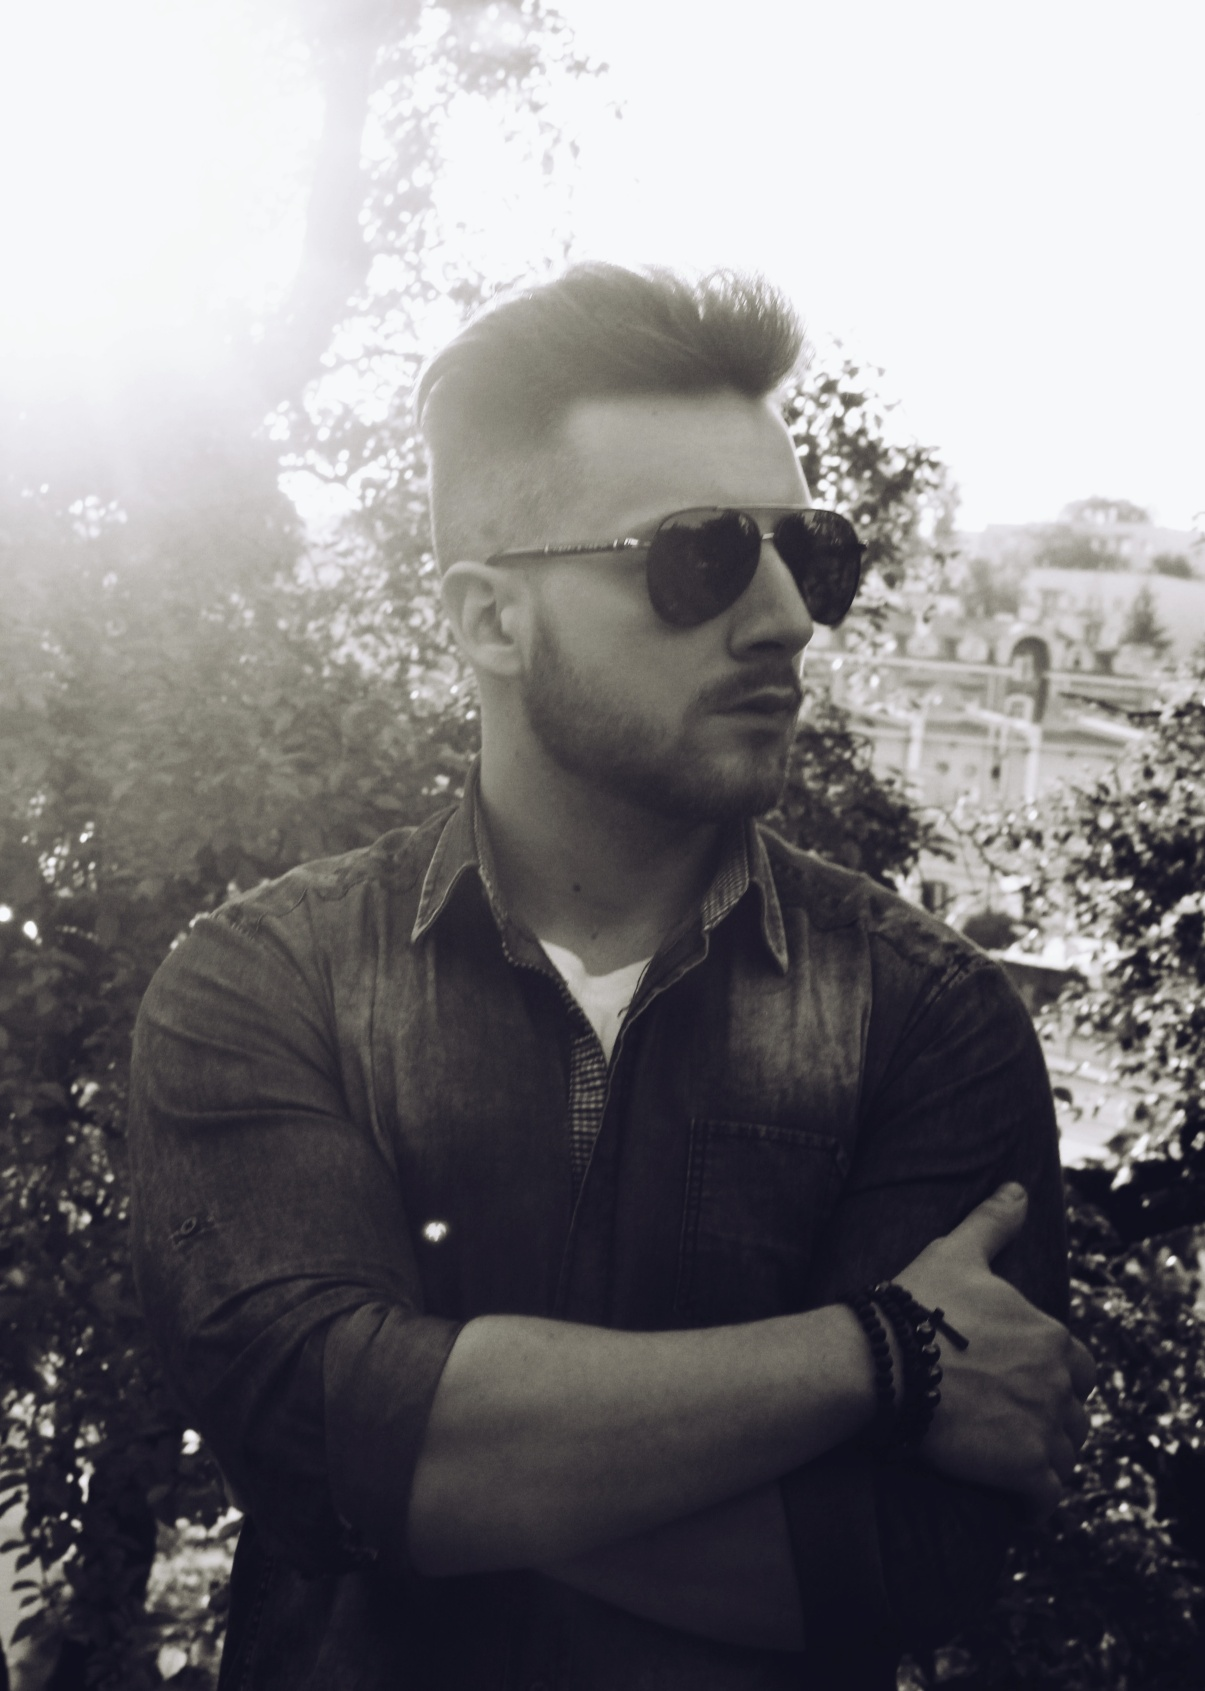
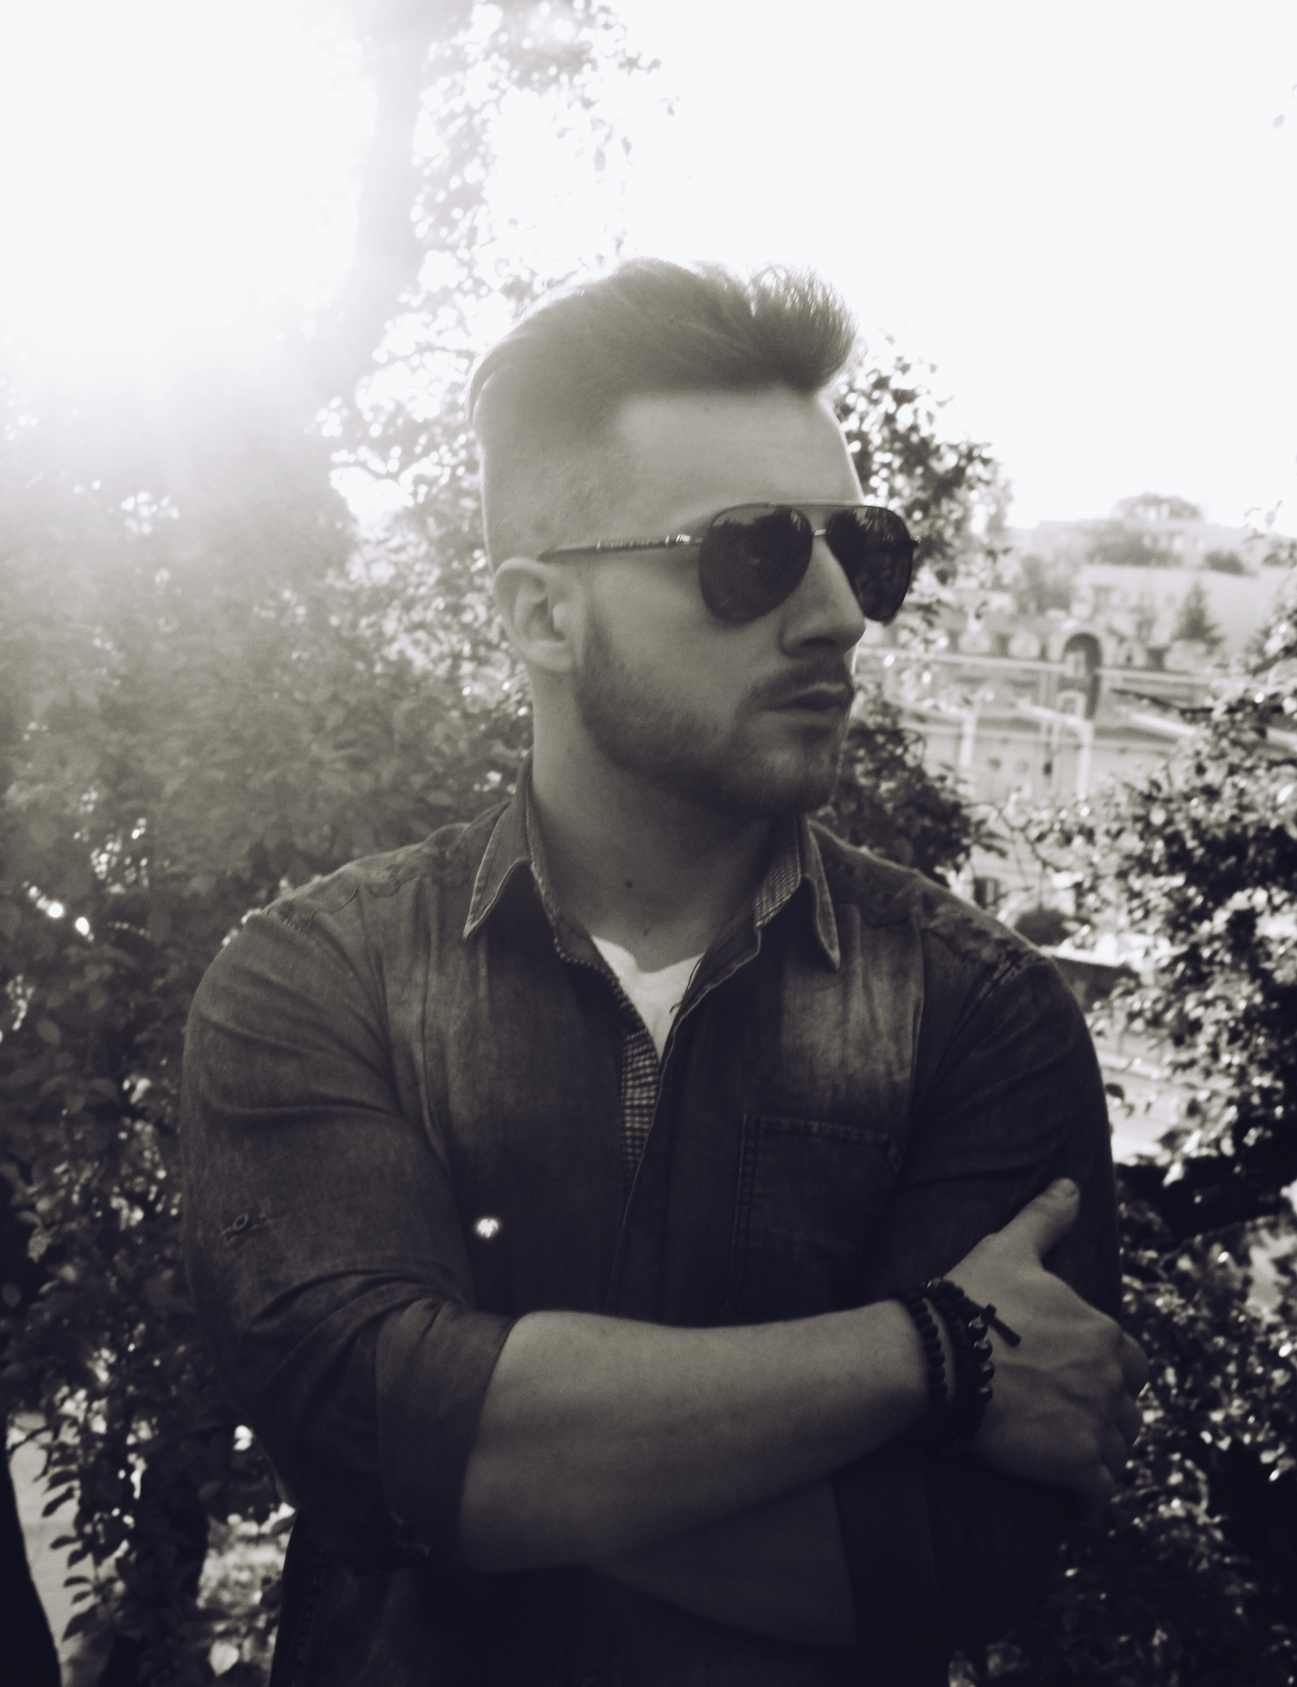
Change about me secton image  extension to PNG which cause an error during build

diff --git a/src/index.html b/src/index.html
@@ -275,7 +275,7 @@
               </div>
             </div>
             <div class="about__img-box">
-              <img src="./img/about/aboutme-photo.JPG" alt="" loading="lazy" />
+              <img src="./img/about/aboutme-photo.png" alt="" loading="lazy" />
             </div>
           </div>
         </div>
